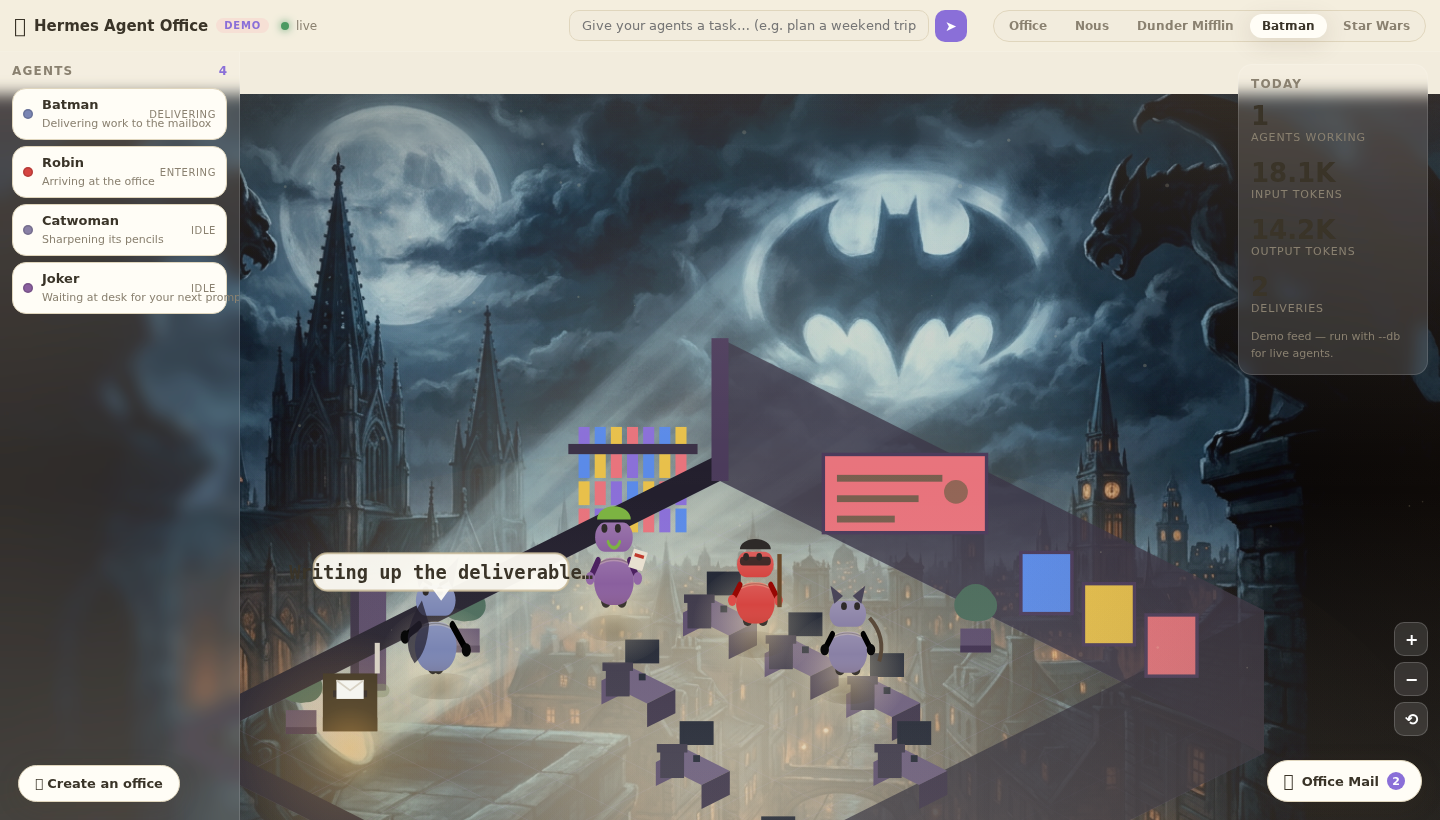
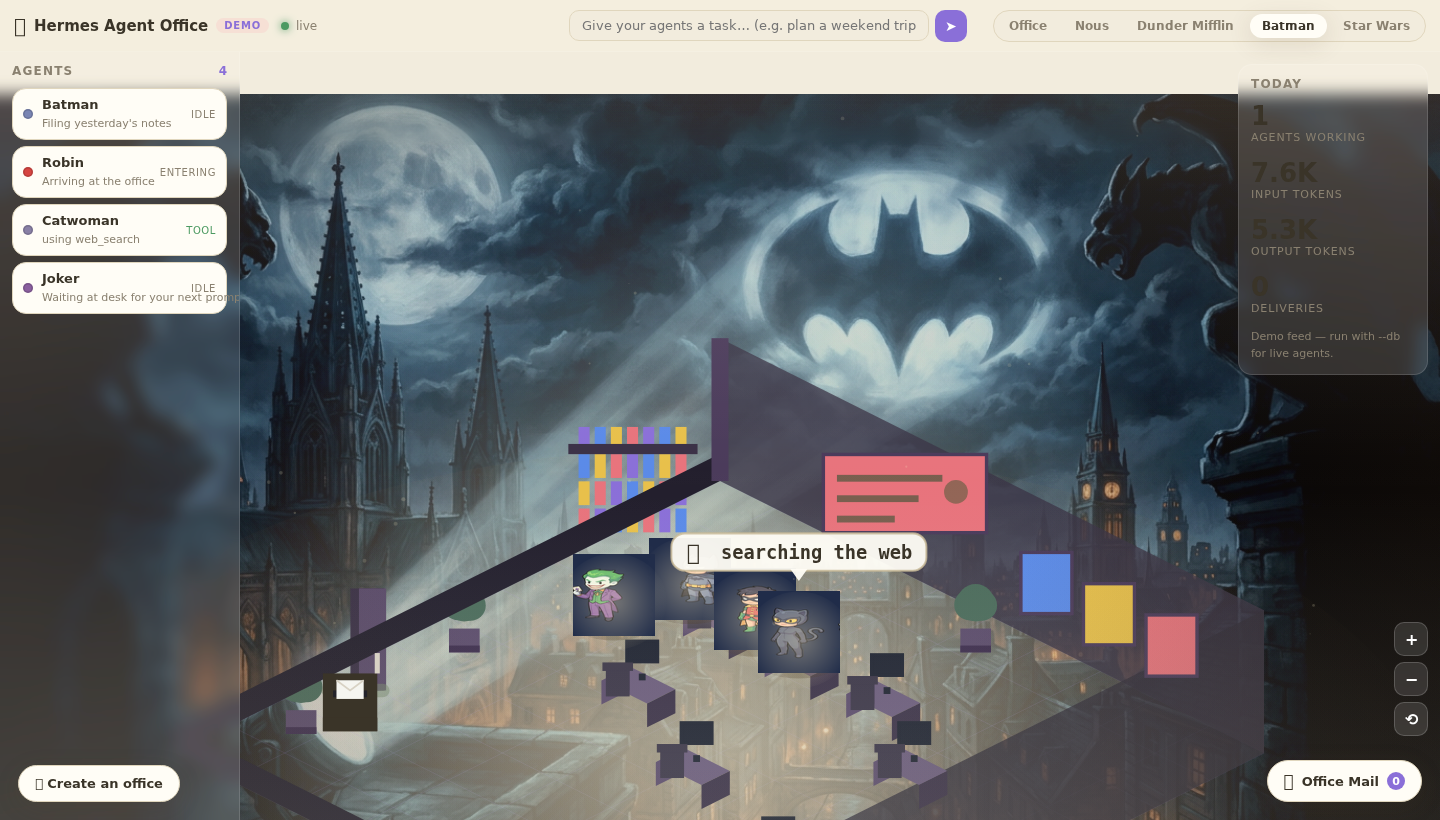
feat: REAL themed character sprites (AI-generated Batman/Robin/Catwoman/Joker art) walking the office; dunder mobile station spacing + label declutter; README screenshots updated

diff --git a/web/office-renderer.js b/web/office-renderer.js
@@ -11,7 +11,9 @@ const OfficeRenderer = {
   name: 'office',
 
   init(eng) {
-    this.agentsV = new Map();   // per-agent visual state
+    this.agentsV = new Map();
+    this.sprites = {};   // name -> HTMLImageElement (themed character art)
+    this._loadSprites();
     this.backdrop = null;
     const img = new Image();
     img.src = '/assets/office-backdrop-v3.png';
@@ -25,6 +27,15 @@ const OfficeRenderer = {
         x: Math.random(), y: Math.random(), z: Math.random() * 0.6 + 0.2,
         s: Math.random() * 1.6 + 0.5, p: Math.random() * Math.PI * 2,
       });
+    }
+  },
+
+  _loadSprites() {
+    const names = ['batman', 'robin', 'catwoman', 'joker'];
+    for (const n of names) {
+      const img = new Image();
+      img.src = '/assets/char-' + n + '.png';
+      this.sprites[n] = img;
     }
   },
 
@@ -383,6 +394,13 @@ const OfficeRenderer = {
     const now = performance.now() / 1000;
     const look = a.look || { hue: a.color, body: 'default', topper: 'none', acc: 'none', face: 'calm' };
     const hue = look.hue || a.color;
+    // THEMED SPRITE: if this agent has character art, draw it instead of the capsule
+    const spriteKey = (a.name || '').toLowerCase();
+    const spr = this.sprites[spriteKey];
+    if (spr && spr.complete && spr.naturalWidth > 0) {
+      this.drawSpriteAgent(eng, ctx, a, c, u, spr);
+      return;
+    }
 
     // body proportions per archetype
     const P = {
@@ -565,6 +583,37 @@ const OfficeRenderer = {
       ctx.fillStyle = '#f5f5f0';
       ctx.fillRect(-6 * s, -4 * s, 12 * s, 8 * s);
       ctx.restore();
+    }
+  },
+
+  /* themed character sprite (AI-generated art) */
+  drawSpriteAgent(eng, ctx, a, c, u, img) {
+    const bob = a.moving ? Math.sin(a.walkPhase) * 1.5 * u : Math.sin(a.walkPhase * 0.55) * 0.8 * u;
+    const w = 34 * u, hh = 34 * u;
+    // grounding shadow
+    const sh = ctx.createRadialGradient(c.x, c.y + u * 3, u * 2, c.x, c.y + u * 3, u * 15);
+    sh.addColorStop(0, 'rgba(60,45,25,0.35)');
+    sh.addColorStop(1, 'rgba(60,45,25,0)');
+    ctx.fillStyle = sh;
+    ctx.beginPath();
+    ctx.ellipse(c.x, c.y + u * 3, u * 15, u * 5, 0, 0, Math.PI * 2);
+    ctx.fill();
+    // draw sprite with slight bob + squash on walk
+    const sq = a.moving ? 0.06 : 0;
+    ctx.save();
+    ctx.translate(c.x, c.y - hh / 2 + bob + u * 6);
+    ctx.scale(1 + sq, 1 - sq);
+    ctx.drawImage(img, -w / 2, -hh / 2, w, hh);
+    ctx.restore();
+    // halo behind on dark themes
+    if (eng.theme && eng.theme.fx && eng.theme.fx.dark) {
+      const halo = ctx.createRadialGradient(c.x, c.y - u * 8, u * 2, c.x, c.y - u * 8, u * 22);
+      halo.addColorStop(0, 'rgba(255,236,190,0.35)');
+      halo.addColorStop(1, 'rgba(255,236,190,0)');
+      ctx.fillStyle = halo;
+      ctx.beginPath();
+      ctx.ellipse(c.x, c.y - u * 8, u * 22, u * 20, 0, 0, Math.PI * 2);
+      ctx.fill();
     }
   },
 
